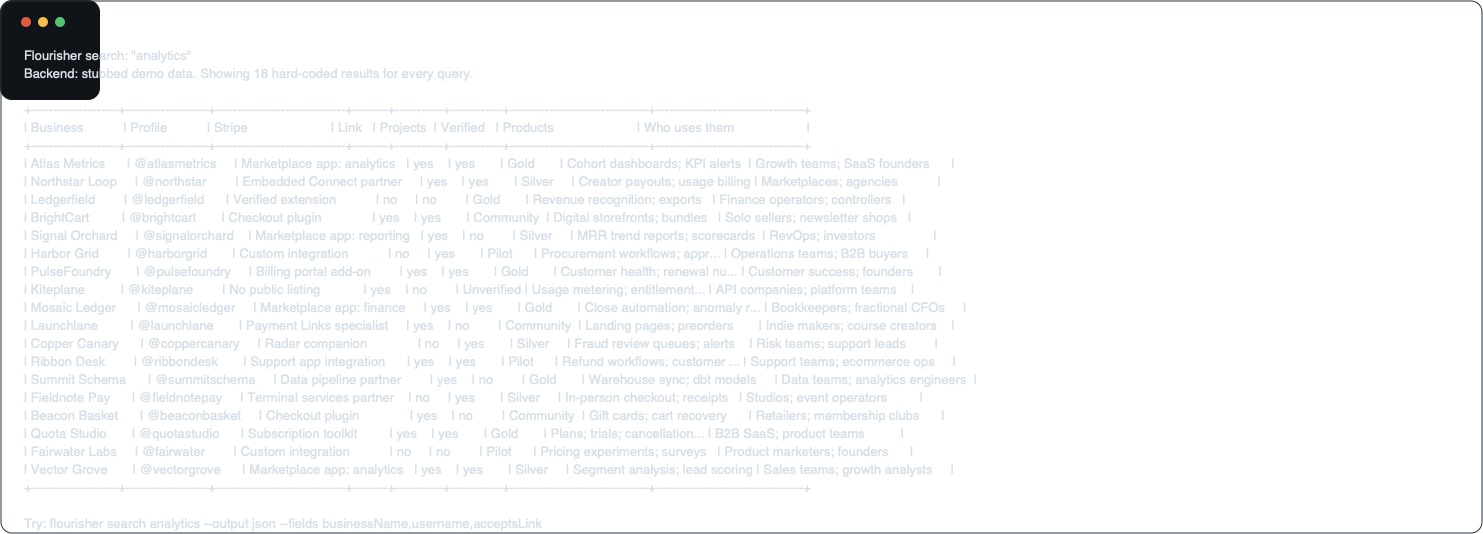
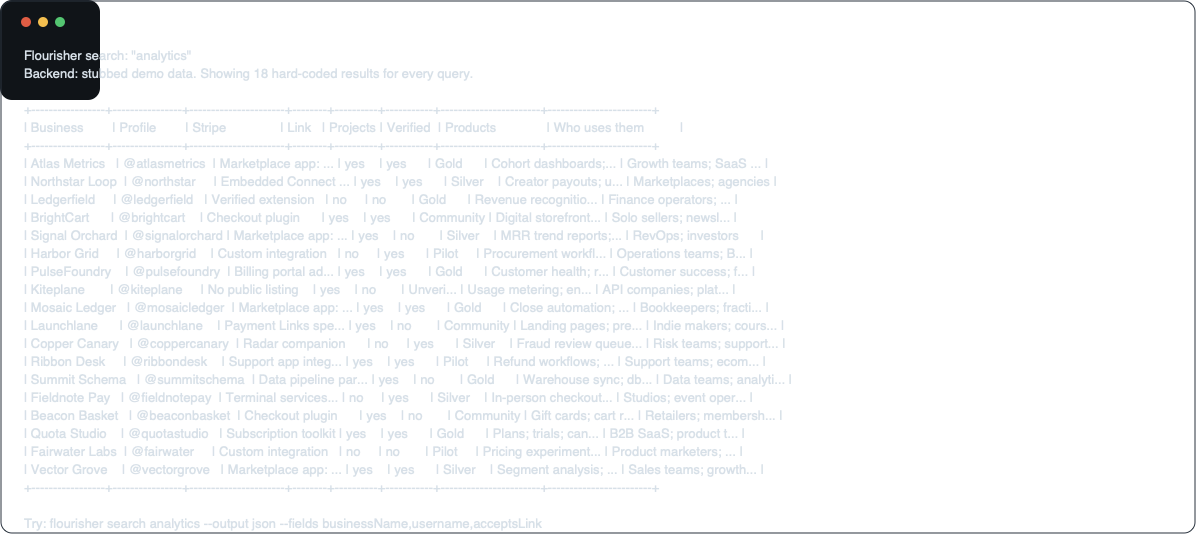
Refresh demo assets for interactive states

diff --git a/docs/index.html b/docs/index.html
@@ -128,6 +128,27 @@
             </div>
             <pre><code>node ./bin/flourisher.js browse "analytics" --snapshot --selected vectorgrove --marked atlasmetrics,vectorgrove --pane details --columns 132</code></pre>
           </div>
+          <div class="snippet">
+            <div class="snippet-head">
+              <h3>Compare selected</h3>
+              <button type="button" data-copy="node ./bin/flourisher.js browse &quot;analytics&quot; --snapshot --selected vectorgrove --marked atlasmetrics,vectorgrove --pane compare --columns 132">Copy</button>
+            </div>
+            <pre><code>node ./bin/flourisher.js browse "analytics" --snapshot --selected vectorgrove --marked atlasmetrics,vectorgrove --pane compare --columns 132</code></pre>
+          </div>
+          <div class="snippet">
+            <div class="snippet-head">
+              <h3>Follow-on search</h3>
+              <button type="button" data-copy="node ./bin/flourisher.js browse &quot;analytics&quot; --snapshot --selected vectorgrove --pane details --command &quot;search products&quot; --columns 132">Copy</button>
+            </div>
+            <pre><code>node ./bin/flourisher.js browse "analytics" --snapshot --selected vectorgrove --pane details --command "search products" --columns 132</code></pre>
+          </div>
+          <div class="snippet">
+            <div class="snippet-head">
+              <h3>Hide incomplete row</h3>
+              <button type="button" data-copy="node ./bin/flourisher.js browse &quot;analytics&quot; --snapshot --hidden atlasmetrics --selected northstar --columns 96">Copy</button>
+            </div>
+            <pre><code>node ./bin/flourisher.js browse "analytics" --snapshot --hidden atlasmetrics --selected northstar --columns 96</code></pre>
+          </div>
         </div>
       </section>
 
@@ -141,6 +162,20 @@
           <figcaption>
             The same hard-coded data can be explored with row selection,
             detail panes, and a marked compare set.
+          </figcaption>
+        </figure>
+        <figure class="wide-artifact">
+          <img src="./assets/browse-compare-wide.png" alt="Terminal screenshot of the interactive compare selected pane">
+          <figcaption>
+            Mark two or more rows to reveal a compare-selected action with
+            payment, compliance, and pricing signals.
+          </figcaption>
+        </figure>
+        <figure class="wide-artifact">
+          <img src="./assets/browse-command-wide.png" alt="Terminal screenshot of a follow-on product search command in the detail pane">
+          <figcaption>
+            Detail panes can seed follow-on commands such as product search or
+            asking a question without leaving the terminal browser.
           </figcaption>
         </figure>
       </section>
@@ -207,6 +242,8 @@
           <a href="./features/05-backend-contract.md">Backend contract</a>
           <a href="./features/06-saved-workflows.md">Saved workflows</a>
           <a href="./features/07-verification-pr-flow.md">Verification and PR flow</a>
+          <a href="../research/README.md">CLI research guide</a>
+          <a href="../research/flourisher-design-backlog.md">Design backlog</a>
         </div>
       </section>
 